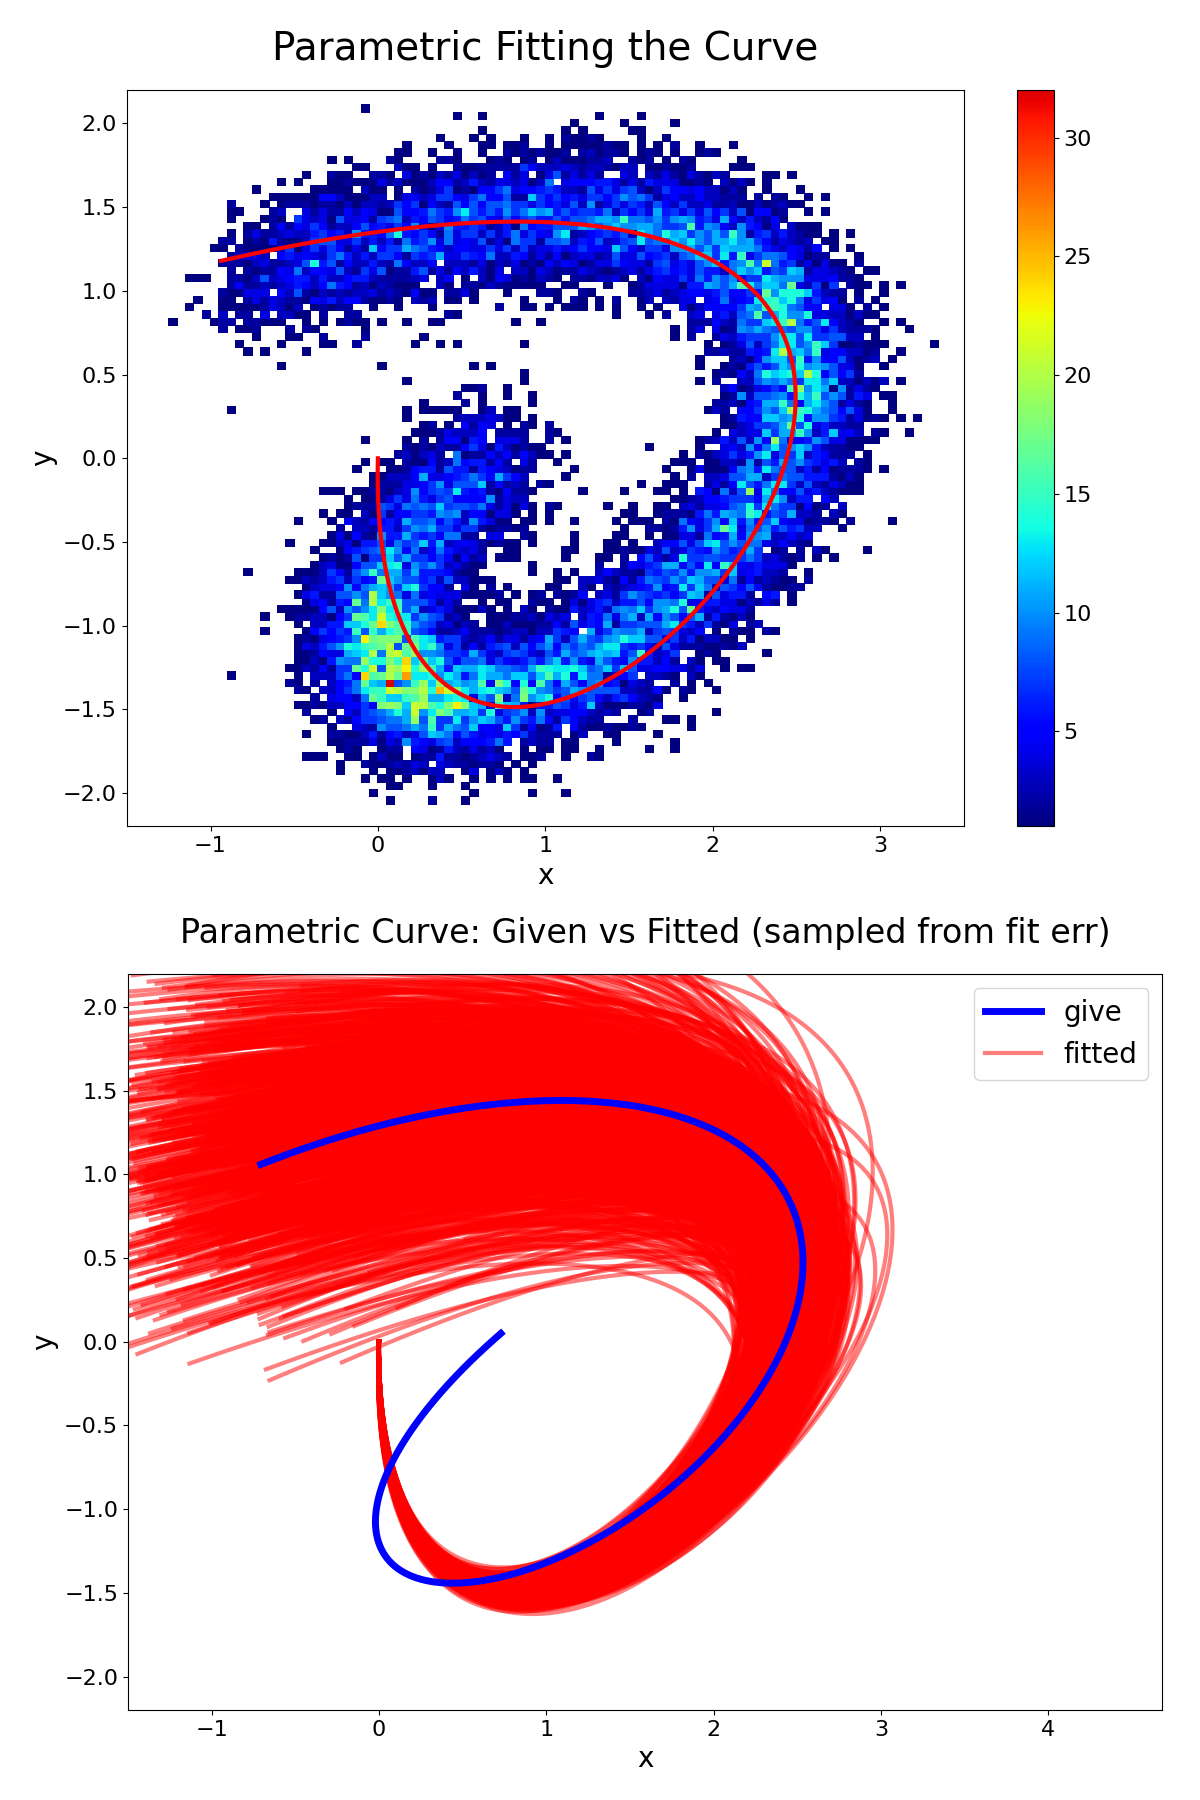
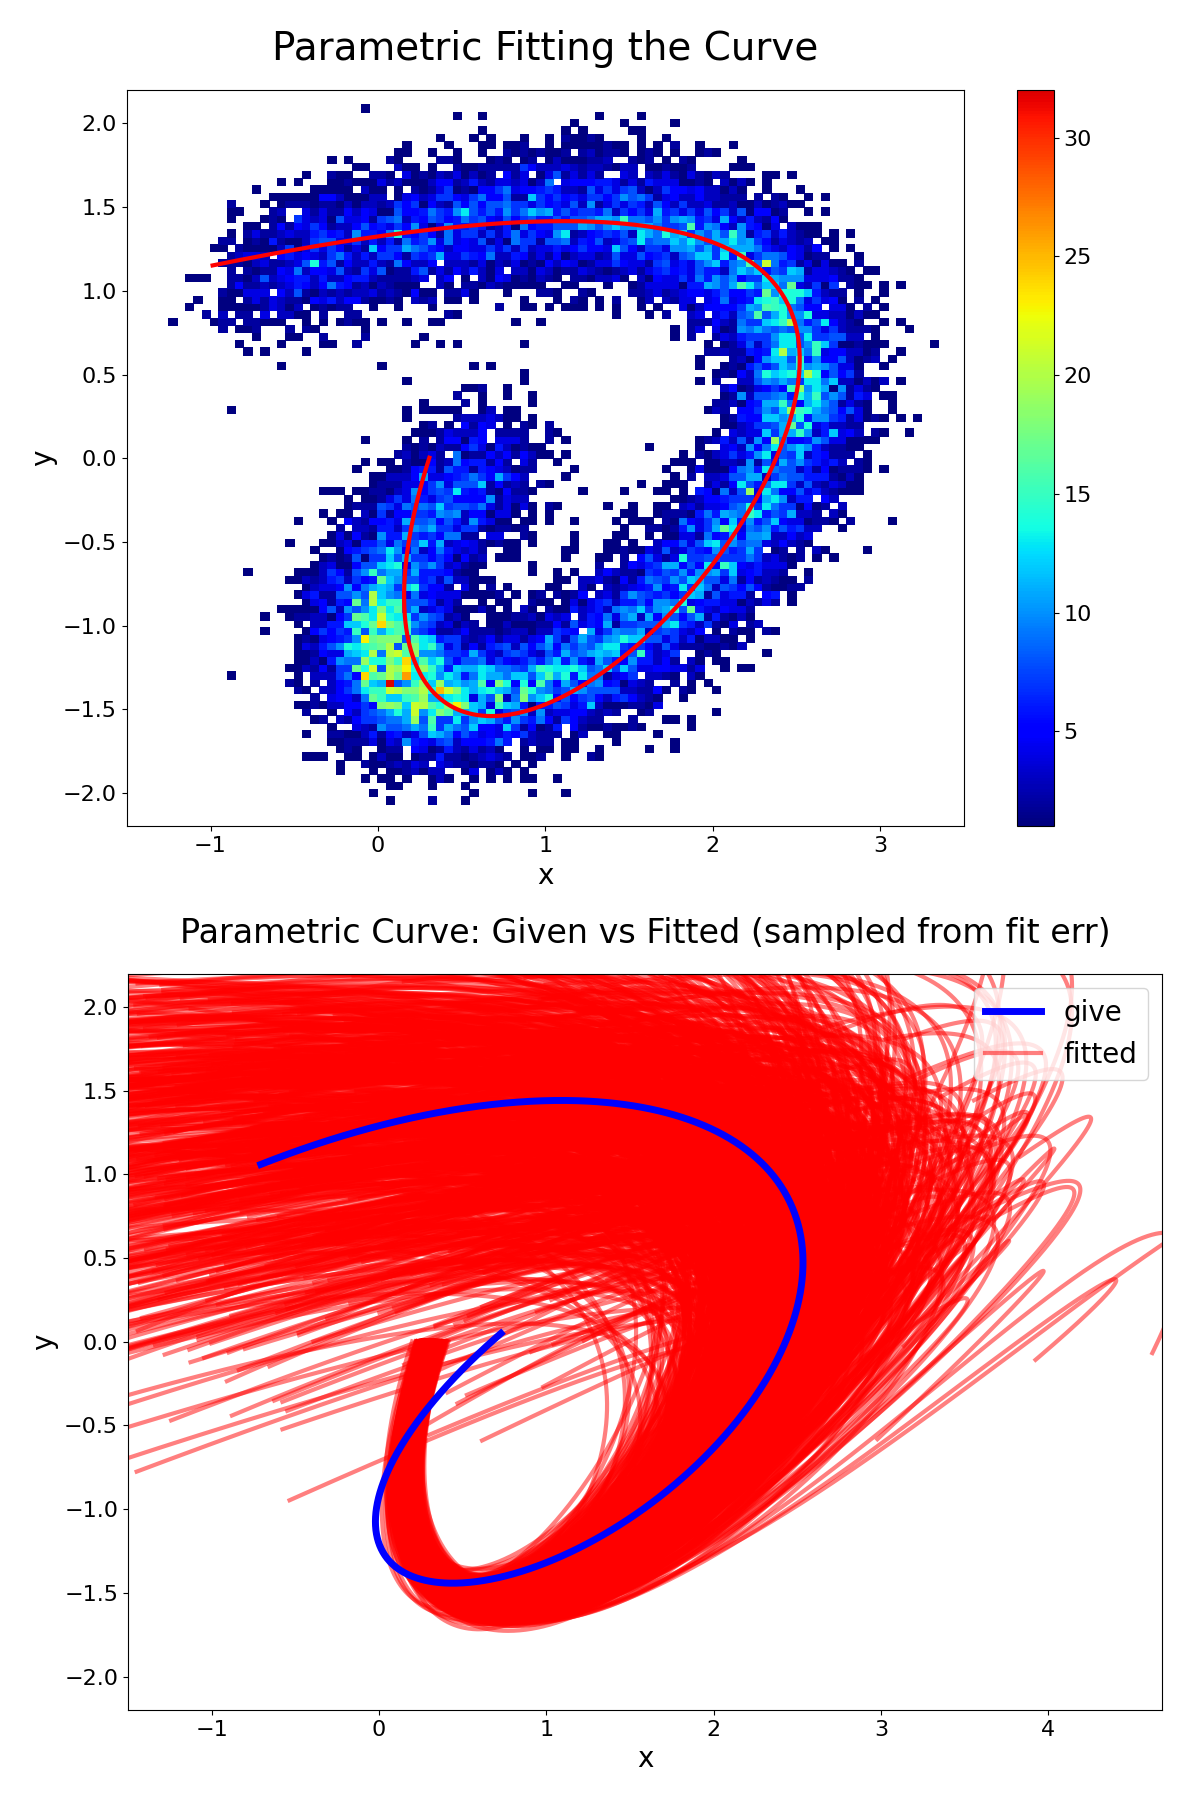
- adding some descriptions to paraLeastSquare()

diff --git a/parametricFit2D.py b/parametricFit2D.py
@@ -15,13 +15,33 @@ import pickle
 
 SAVE_DIR=str(pathlib.Path().absolute())
 ######################################################################################################
-#downSampling[i] = [operation type, replacible sampling size, maxiter, bounds, constraints]
-#constraints only for optMethod = "COBYLA", "SLSQP", "trust-constr":
+#downSampling[i] = [operation type ("Opt": optimization, 
+#                                   "Boot": error from bootstrap, recommending 30 iterations,
+#                                   "Hess": error from inverse Hessian using numdifftools),
+#                   sampling size with replacement, 
+#                   maxiter for least square optimization,
+#                   bounds, constraints]
+#bounds/constraints only for optMethod = "COBYLA", "SLSQP", "trust-constr":
 #  https://docs.scipy.org/doc/scipy/reference/generated/scipy.optimize.minimize.html
-def paraLeastSquare(parXYinit, funcXY, dataXY, dataRangeXY, paraRange=[0.0, 1.0],\
-                    optMethod="Nelder-Mead", bounds=None, constraints=None, ratioHeadTail=0.01,\
-                    verbosity=3, readProgress=True, progressPlot=False, saveProgress=False,\
-                    randSeed=None, downSampling="DEFAULT"): 
+#
+#parXYinit     = [[initial parameter value for x-axis], [initial parameter value for y-axis]]
+#funcXY        = [parametric fit function for x-axis,   parametric fit function for y-axis]
+#dataXY        = [[data values for x-axis],             [data values for y-axis]]
+#dataRangeXY   = [data range for x-axis,                data range for y-axis]
+#   Data that fall outside the range will be removed
+#   The range goes into normalizing the residual square
+#optMethod     = optimization method for the least square (minimizing the the residual square)
+#paraRange     = range allowed for the parametric variable t, whose fit function is (x(t), y(t))
+#ratioHeadTail = adding weight to the the residual square to maintain paraRange
+#randSeed      = random seed for downSampling
+#downSampling  = (see above)
+#verbosity:    controlling the amount of output messages, up to 4
+#progressPlot: saving plots in SAVE_DIR at each downSampling iteration
+#saveProgress: saving pickle files in SAVE_DIR at each downSampling iteration
+#readProgress: reading from pickle files (if exist) to continue the optimization
+def paraLeastSquare(parXYinit, funcXY, dataXY, dataRangeXY, optMethod="Nelder-Mead",\
+                    paraRange=[0.0, 1.0], ratioHeadTail=0.01, randSeed=None, downSampling="DEFAULT",\
+                    verbosity=3, progressPlot=False, saveProgress=False, readProgress=True): 
     #drop out-of-range data
     dataXInput = []
     dataYInput = []
@@ -39,8 +59,8 @@ def paraLeastSquare(parXYinit, funcXY, dataXY, dataRangeXY, paraRange=[0.0, 1.0]
         sys.exit(0)   
  
     if (downSampling is None) or (len(downSampling) == 0):
-        downSampling = [["Opt", np.inf, np.inf, bounds, constraints],\
-                        ["Hess", np.inf, np.inf, bounds, constraints]]
+        downSampling = [["Opt",  np.inf, np.inf, None, None],\
+                        ["Hess", np.inf, np.inf, None, None]]
     elif downSampling == "DEFAULT":
         downSampling=[*[["Opt",  100,    1000, None, None]]*3,\
                       *[["Opt",  1000,   1000, None, None]]*(parXN+parYN),\
@@ -251,7 +271,7 @@ def paraLeastSquare(parXYinit, funcXY, dataXY, dataRangeXY, paraRange=[0.0, 1.0]
     res2AveVal = iterErr2s[-1][-1][1]
     return parXOpt, parYOpt, parXErr, parYErr, res2AveVal
 def paraSquareResidualAve(parXY, funcXY, dataXY, normXYRatio=[1.0, 1.0], paraRange=[0.0, 1.0],\
-                          ratioHeadTail=0.0, verbosity=1, iterErr2=None, downSamp=None):
+                          ratioHeadTail=0.0, iterErr2=None, downSamp=None, verbosity=1):
     if len(dataXY[0]) != len(dataXY[1]):
         print("ERROR: paraSquareErrorAve: lengths of dataX and dataY don't match")
         sys.exit(0)
@@ -540,7 +560,7 @@ def example_parametricFit2D():
         data[0].append(x), data[1].append(y)
 
     optMethod = "Nelder-Mead"
-    readProg, savePlot, saveProg = True, True, True
+    savePlot, saveProg, readProg = True, True, True
 
     ###################################################################################################
     #parametric fit
@@ -548,20 +568,20 @@ def example_parametricFit2D():
     funcX = polyFunc
     funcY = polyFunc    
     ###round1
-    initX = [1.0, -15.0, 43.0, -10.0, -20.0, 0.0, 0.0]
-    initY = [0.0, -8.0,  12.0, -4.0,   1.0,  0.0, 0.0]
-    downSampling=[*[["Opt",  100,    1000, None, None]]*3,\
-                  *[["Opt",  1000,   1000, None, None]]*14,\
-                    ["Opt",  np.inf, 200,  None, None],\
-                  *[["Boot", 1000,   1000, None, None]]*30]
+    #initX = [1.0, -15.0, 43.0, -10.0, -20.0, 0.0, 0.0]
+    #initY = [0.0, -8.0,  12.0, -4.0,   1.0,  0.0, 0.0]
+    #downSampling=[*[["Opt",  100,    1000, None, None]]*3,\
+    #              *[["Opt",  1000,   1000, None, None]]*14,\
+    #                ["Opt",  np.inf, 200,  None, None],\
+    #              *[["Boot", 1000,   1000, None, None]]*30]
     ###round2 using results of round1
     ###[ 1.53e-4, -0.238, 15.6, -10.8, -5.76, -5.76e-5, -3.04e-4]
     ###[-6.73e-4, -11.3,  23.8, -3.5,  -8.04, -0.0163,   0.0573]
-    #initX = [0.8,      -8.238, 23.6, -10.8, -5.76, 20.0, -20.0]
-    #initY = [-6.73e-4, -11.3,  23.8, -3.5,  -8.04, -2.0, 2.3]
-    #downSampling=[*[["Opt",  1000,   1000, None, None]]*14,\
-    #                ["Opt",  np.inf, 200,  None, None],\
-    #              *[["Boot", 1000,   1000, None, None]]*30]
+    initX = [0.8,      -8.238, 23.6, -10.8, -5.76, 20.0, -20.0]
+    initY = [-6.73e-4, -11.3,  23.8, -3.5,  -8.04, -2.0, 2.3]
+    downSampling=[*[["Opt",  1000,   1000, None, None]]*14,\
+                    ["Opt",  np.inf, 200,  None, None],\
+                  *[["Boot", 1000,   1000, None, None]]*30]
     ###set maxiter to 0 with (progressPlot=True, saveProgress=False) prints the plot with initXY
     #downSampling = [*[["Opt", 1000, 0, None, None]]*1]
     ###plotting the last entry indefinitely
@@ -571,9 +591,8 @@ def example_parametricFit2D():
     
     parXOpt, parYOpt, parXErr, parYErr, res2AveVal = \
         paraLeastSquare([initX, initY], [funcX, funcY], data, rangeXY, optMethod=optMethod,\
-                        ratioHeadTail=0.01, verbosity=3,\
-                        readProgress=readProg, progressPlot=savePlot, saveProgress=saveProg,\
-                        randSeed=0, downSampling=downSampling)
+                        ratioHeadTail=0.01, randSeed=0, downSampling=downSampling,\
+                        verbosity=3, progressPlot=savePlot, saveProgress=saveProg,readProgress=readProg)
 
     fitT = np.linspace(0.0, 1.0, binN+1)[:-1]
     fitFuncX = funcX(fitT, parXOpt)
@@ -606,6 +625,7 @@ def example_parametricFit2D():
     ax[0].set_ylim(*rangeXY[1])
 
     errCurveN = 1000
+    print("Sampling the fit curve from the parameter standard errors...")
     for i in tqdm(range(errCurveN)):
         parXOptSamp = [rd.gauss(par, parXErr[nx]) for nx, par in enumerate(parXOpt)]
         parYOptSamp = [rd.gauss(par, parYErr[ny]) for ny, par in enumerate(parYOpt)]
